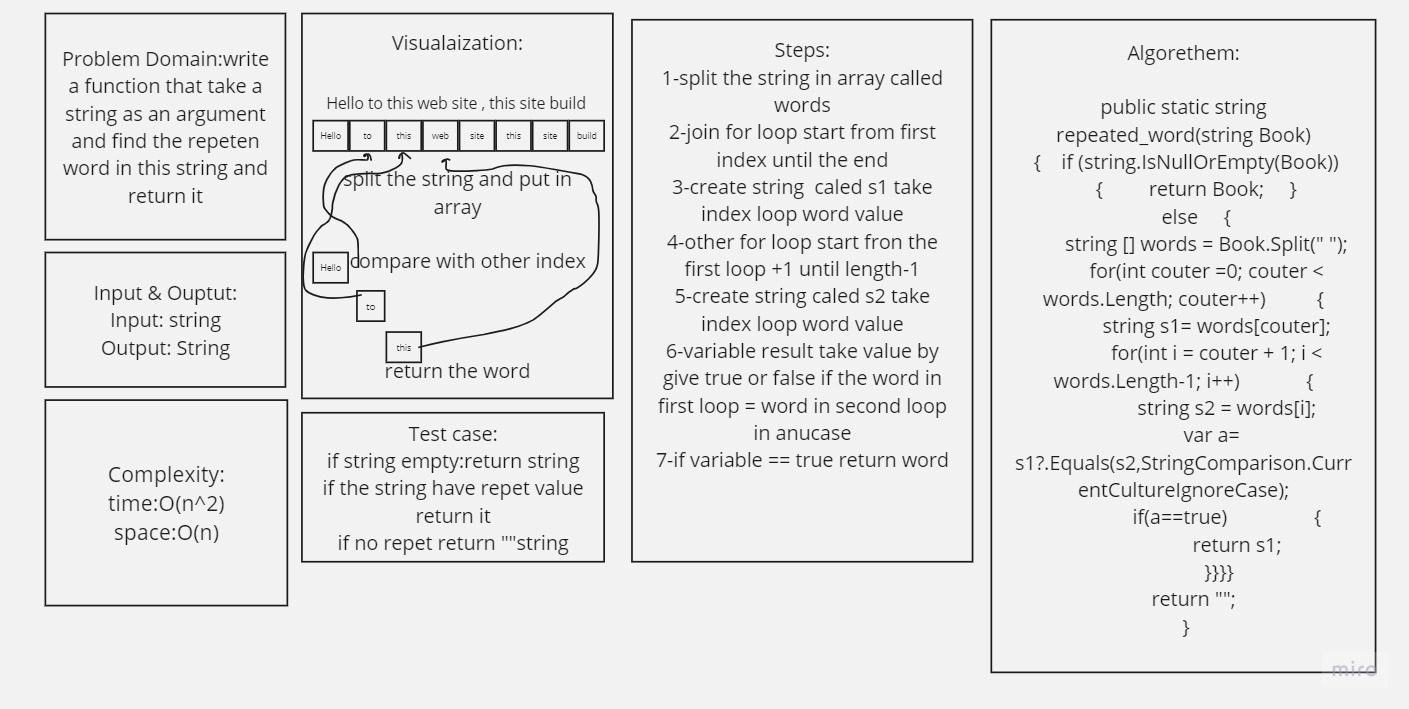
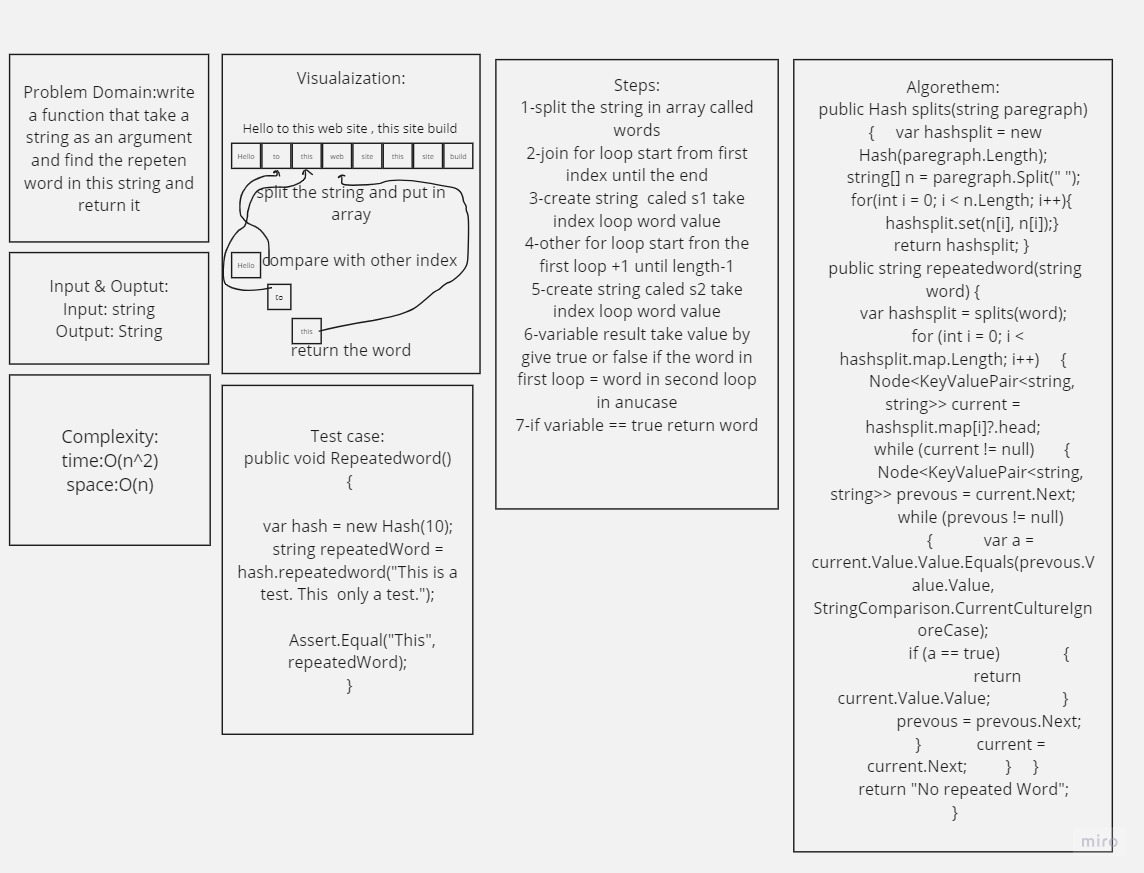
done

Changed region(s): [[0.0, 0.0, 0.979, 0.9929], [0.0612, 0.6516, 0.153, 0.7757], [0.0306, 0.6206, 0.0612, 0.6516]]

diff --git a/Data_Stucture_AndAlgoerthem/RepetedInString/FindRepetWord/FindRepetWord/Program.cs b/Data_Stucture_AndAlgoerthem/RepetedInString/FindRepetWord/FindRepetWord/Program.cs
@@ -1,5 +1,6 @@
 using System.ComponentModel;
 using System.Diagnostics.Metrics;
+using System;
 
 namespace FindRepetWord
 {
@@ -7,37 +8,187 @@ namespace FindRepetWord
     {
         static void Main(string[] args)
         {
-           
+            string word1 = "It was the best of times, it was the worst of times, it was the age of wisdom,";
+
+            Hash n = new Hash(word1.Length);
+           Console.WriteLine(n.repeatedword(word1));
         }
 
-        public static string repeated_word(string Book)
+    }
+    public class Node<T>
         {
-           if (string.IsNullOrEmpty(Book))
+            public T Value { get; set; }
+
+            public Node<T> Next { get; set; }
+
+            public Node(T value)
             {
-                return Book;
+                Value = value;
             }
 
-            else
+        }
+
+        public class LinkedList<T>
+        {
+            public LinkedList()
             {
-                string [] words = Book.Split(" "); 
-                for(int couter =0; couter < words.Length; couter++) 
+            }
+
+            public Node<T> head { get; set; }
+
+            public LinkedList(T value)
+            {
+                Node<T> node = new Node<T>(value);
+                head = node;
+            }
+
+            public void insert(T value)
+            {
+                Node<T> node = new Node<T>(value);
+
+                node.Next = head;
+                head = node;
+            }
+        }
+
+        public class Hash
+        {
+            private LinkedList<KeyValuePair<string, string>>[] map { get; set; }
+            public Hash(int size)
+            {
+                map = new LinkedList<KeyValuePair<string, string>>[size];
+            }
+
+            public int hash(string key)
+            {
+                int number = 0;
+
+                char[] arr = key.ToCharArray();
+                for (int i = 0; i < arr.Length; i++)
                 {
-                    string s1= words[couter];
-                    for(int i = couter + 1; i < words.Length-1; i++)
+                    number += arr[i];
+                    number = (number * 599) % map.Length;
+                }
+                return number;
+
+            }
+            public void set(string key, string value)
+            {
+                int number = hash(key);
+                if (map[number] == null)
+                {
+                    map[number] = new LinkedList<KeyValuePair<string, string>>();
+                }
+
+                KeyValuePair<string, string> Value = new KeyValuePair<string, string>(key, value);
+
+                map[number].insert(Value);
+            }
+
+            public string get(string key)
+            {
+                for (int i = 0; i < map.Length; i++)
+                {
+                    if (map[i] != null)
                     {
-                        string s2 = words[i];
-                   var a=  s1?.Equals(s2,StringComparison.CurrentCultureIgnoreCase);
-                        if(a==true)
+                        Node<KeyValuePair<string, string>> current = map[i].head;
+                        while (current != null)
                         {
-                            return s1;
-                        }                       
+                            if (key == current.Value.Key)
+                            {
+                                return current.Value.Value;
+                            }
+                            current = current.Next;
+                        }
+                    }
+                }
+                return "Not Found";
+            }
+
+            public bool has(string key)
+            {
+                for (int i = 0; i < map.Length; i++)
+                {
+                    if (map[i] != null)
+                    {
+                        Node<KeyValuePair<string, string>> current = map[i].head;
+                        while (key != current.Value.Key)
+                        {
+                            current = current.Next;
+                        }
+                        if (key == current.Value.Key)
+                        {
+                            return true;
+                        }
+                    }
+
+                }
+                return false;
+            }
+
+            public string[] Keys()
+            {
+                List<string> keyList = new List<string>();
+
+                for (int i = 0; i < map.Length; i++)
+                {
+                    Node<KeyValuePair<string, string>> current = map[i]?.head;
+
+                    while (current != null)
+                    {
+                        keyList.Add(current.Value.Key);
+                        current = current.Next;
                     }
                 }
 
+                return keyList.ToArray();
             }
-           return "";
+
+        public Hash splits(string paregraph)
+        {
+            var hashsplit = new Hash(paregraph.Length);
+            string[] n = paregraph.Split(" ");
+           for(int i = 0; i < n.Length; i++)
+            {
+                
+                hashsplit.set(n[i], n[i]);
+            }
+
+           return hashsplit;
+
         }
+        public string repeatedword(string word)
+        {
+            var hashsplit = splits(word); 
+            //string result;
+
+            for (int i = 0; i < hashsplit.map.Length; i++)
+            {
+                Node<KeyValuePair<string, string>> current = hashsplit.map[i]?.head;
+
+                while (current != null)
+                {
+                    Node<KeyValuePair<string, string>> prevous = current.Next;
+                    while (prevous != null)
+                    {
+                        var a = current.Value.Value.Equals(prevous.Value.Value, StringComparison.CurrentCultureIgnoreCase);
+                        if (a == true)
+                        {
+                            return current.Value.Value;
+                        }
+                        prevous = prevous.Next; 
+                    }
+                    current = current.Next;
+                }
+            }
+            return "No repeated Word";
+        }
+
     }
 
 }
+
+
+
+
 
